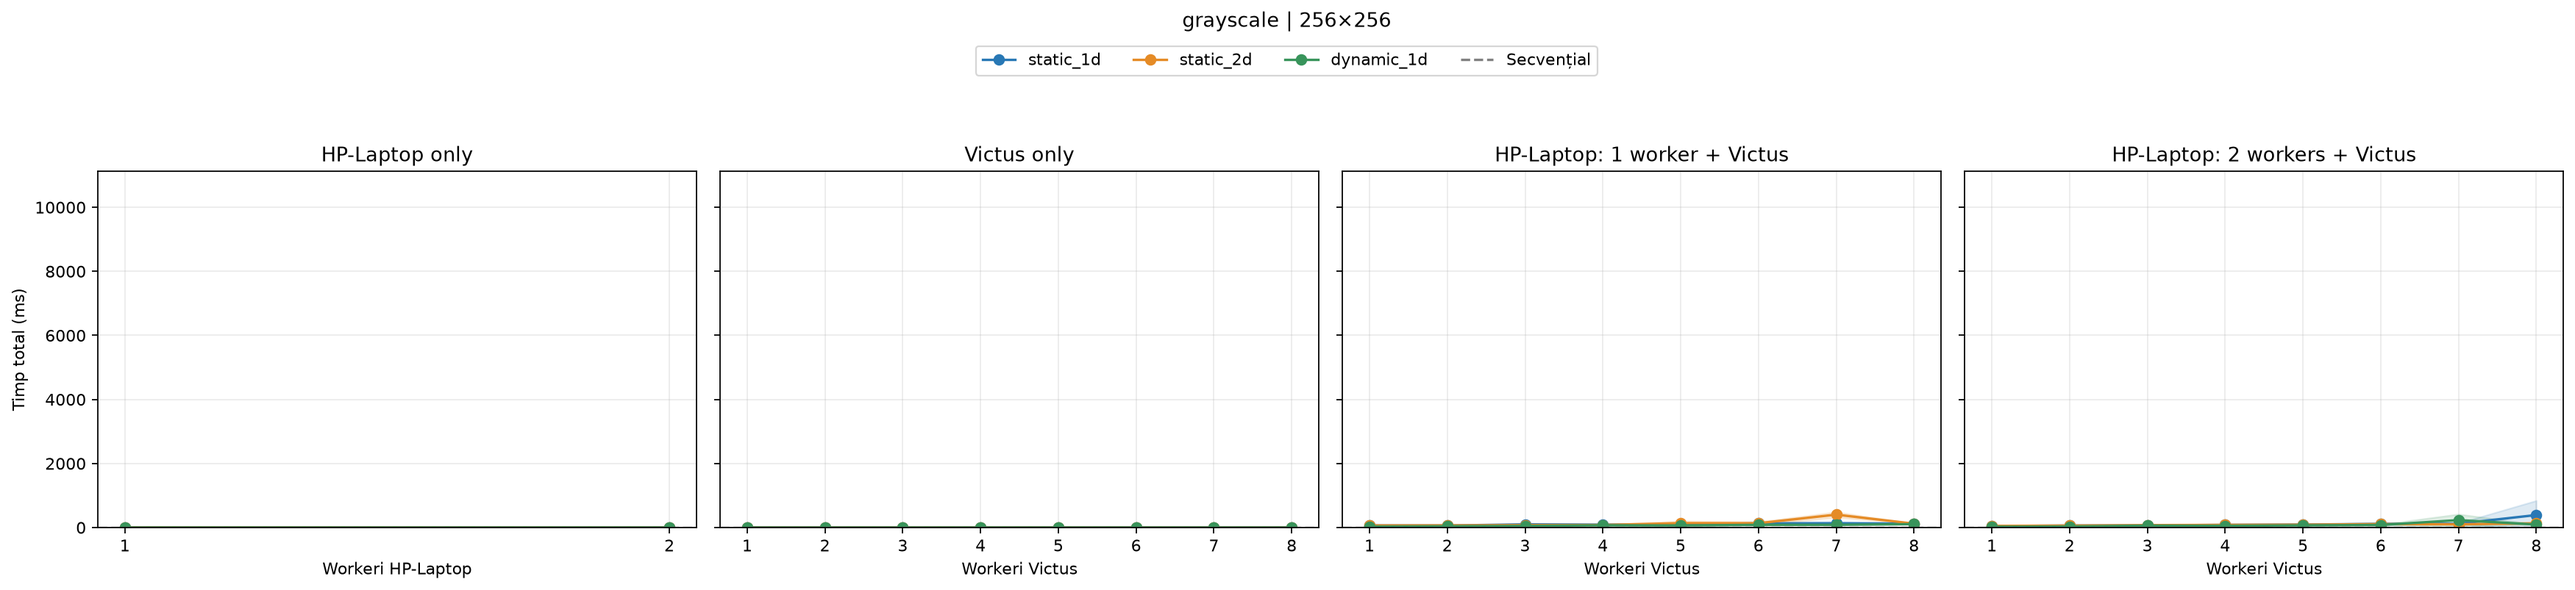
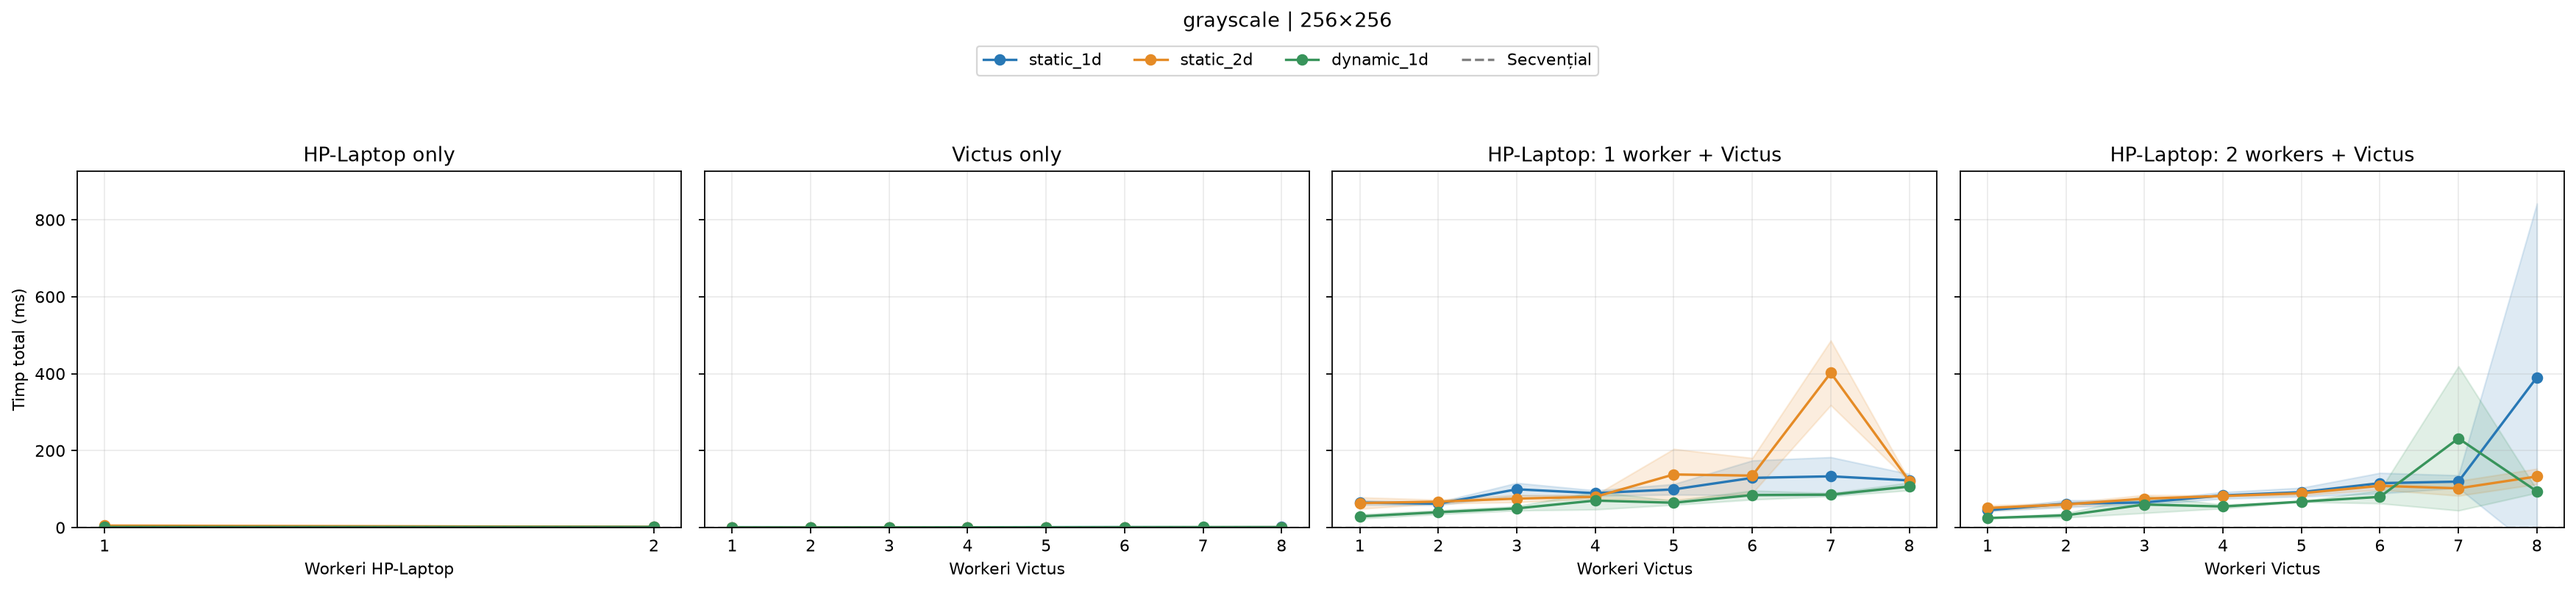
test benchmark 1 done(benchmark with small image)

diff --git a/HW1/benchmark_two_machines_small.py b/HW1/benchmark_two_machines_small.py
@@ -120,8 +120,6 @@ def figures_and_report(raw):
         writer = csv.DictWriter(f, fieldnames=list(raw[0]) + ['coordinator'])
         writer.writeheader()
         writer.writerows(dict(r, hp=0 if r['mode'] == 'seq' else r['hp'], victus=0 if r['mode'] == 'seq' else r['victus'], coordinator='HP-Laptop' if r['hp'] else 'victus') for r in raw)
-    time_max = max(r['total'] + r['std'] for r in rows) * 1100
-    speed_max = max(1, max(r['speedup'] for r in rows)) * 1.1
     report = ['# Studiu pilot pe două calculatoare, 256×256', '',
         'Imaginea `test_images/sample_small.ppm` are 65.536 pixeli. Acest raport păstrează studiul original și folosește numai imaginea de 256×256.', '',
         '## Metodologie', '',
@@ -130,10 +128,16 @@ def figures_and_report(raw):
         'În rulările mixte, rangul 0 și primii 1 sau 2 workeri sunt pe HP-Laptop, iar restul workerilor sunt pe Victus. În rulările pe un singur calculator, coordonatorul rulează pe același calculator. Limitele de 2 și 8 se referă la workeri.', '',
         'Speedup = media timpului secvențial / media timpului paralel. Referința secvențială rulează pe calculatorul coordonatorului, deci HP-Laptop pentru configurațiile mixte. Eficiența este speedup / numărul total de workeri. Pe calculatoare diferite, acest raport depinde de performanța referinței secvențiale.', '',
         'Timpii provin din instrumentarea C și exclud lansarea MPI, citirea imaginii, scrierea rezultatului și verificarea pixelilor. Prima repetare a fiecărei configurații salvează rezultatul pentru comparație integrală cu referința secvențială. Celelalte repetări folosesc ieșirea NONE. Timpii sunt afișați ca medie și abatere standard. Trei repetări oferă o verificare pilot, cu precizie limitată pentru operațiile scurte.', '',
-        'Toate graficele de timp folosesc aceeași limită verticală, inclusiv graficele strategiilor. Graficele de speedup folosesc o limită comună. Valorile extreme ridică limita verticală, astfel că unele curbe și bare sunt aproape de zero pe această scară. Tabelele păstrează valorile numerice. Datele brute includ timpii fiecărui worker, distribuția pe calculatoare și datele necesare eficienței. Variația cu rezoluția necesită măsurători la alte dimensiuni și nu poate fi evaluată cu această singură imagine.', '']
+        'Cele patru panouri ale graficelor de timp și speedup folosesc aceeași limită verticală, calculată din maximul datelor afișate în acea figură, cu 10% spațiu suplimentar. Graficele strategiilor au două rânduri: configurațiile pe un singur calculator sus și configurațiile mixte jos. Fiecare rând folosește propria limită verticală comună, calculată din maximul celor două panouri, cu 10% spațiu suplimentar. Pentru timp sunt incluse benzile de abatere standard și referințele secvențiale; pentru strategii sunt incluse înălțimile totale ale barelor suprapuse. Limitele sunt calculate separat pentru fiecare operație și tip de grafic. Valorile extreme din aceeași figură pot comprima curbele și barele mai mici. Tabelele păstrează valorile numerice. Datele brute includ timpii fiecărui worker, distribuția pe calculatoare și datele necesare eficienței. Variația cu rezoluția necesită măsurători la alte dimensiuni și nu poate fi evaluată cu această singură imagine.', '']
     for op in OPS:
         slug = op.replace(',', '_')
         subset = [r for r in rows if r['op'] == op and r['mode'] != 'seq']
+        # Share a scale within each four-panel figure, not across operations.
+        time_max = max(
+            max(r['total'] + r['std'] for r in subset),
+            *(baselines[op, host] for host in ('HP-Laptop', 'victus')),
+        ) * 1100
+        speed_max = max(1, max(r['speedup'] for r in subset)) * 1.1
         report += [f'## {op}', '']
         for metric, filename, ylabel, limit in [('total', 'execution_time', 'Timp total (ms)', time_max), ('speedup', 'speedup', 'Speedup', speed_max)]:
             fig, axes = plt.subplots(1, 4, figsize=(22, 5), sharey=True)
@@ -161,8 +165,16 @@ def figures_and_report(raw):
             fig.savefig(OUT / f'{filename}_{slug}.png', dpi=160, bbox_inches='tight')
             plt.close(fig)
             report += [f'![{ylabel}, {op}](benchmark_small_two_machines/{filename}_{slug}.png)', '']
-        fig, axes = plt.subplots(1, 4, figsize=(30, 7), sharey=True)
-        for ax, (h, v) in zip(axes, PROFILES):
+        fig, axes = plt.subplots(2, 2, figsize=(20, 12), sharey='row')
+        partition_limits = []
+        for profiles in (PROFILES[:2], PROFILES[2:]):
+            profile_rows = [r for r in subset if (r['hp'], r['victus']) in profiles]
+            partition_limits.append(max(
+                max(r['total'], r['pack'] + r['send'] + r['wait'],
+                    *(comp + ops for comp, ops in zip(r['workers_comp'], r['workers_ops'])))
+                for r in profile_rows
+            ) * 1100)
+        for idx, (ax, (h, v)) in enumerate(zip(axes.flat, PROFILES)):
             ticks, labels = [], []
             pos = 0
             for mode in MODES:
@@ -185,13 +197,14 @@ def figures_and_report(raw):
                 ax.text((start+pos)/2, -.29, mode, ha='center', transform=ax.get_xaxis_transform(), fontsize=10)
                 pos += 2
             ax.set_xticks(ticks, labels, rotation=90, fontsize=7)
-            ax.set(title=f'HP-Laptop: {h} workeri | Victus: {v} workeri', ylim=(0, time_max))
+            ax.set(title=f'HP-Laptop: {h} workeri | Victus: {v} workeri', ylim=(0, partition_limits[idx // 2]))
             ax.grid(axis='y', alpha=.25)
-        axes[0].set_ylabel('Timp (ms)')
-        handles, labels = axes[0].get_legend_handles_labels()
+        for ax in axes[:, 0]:
+            ax.set_ylabel('Timp (ms)')
+        handles, labels = axes[0, 0].get_legend_handles_labels()
         fig.legend(handles, labels, loc='upper center', bbox_to_anchor=(.5, .95), ncol=6)
         fig.suptitle(f'{op} | 256×256', y=.995)
-        fig.tight_layout(rect=(0, .12, 1, .86))
+        fig.tight_layout(rect=(0, .06, 1, .91), h_pad=7)
         fig.savefig(OUT / f'partition_strategies_{slug}.png', dpi=160, bbox_inches='tight')
         plt.close(fig)
         report += [f'![Strategii, {op}](benchmark_small_two_machines/partition_strategies_{slug}.png)', '']

diff --git a/HW1/experimental_study_256x256_two_machines.md b/HW1/experimental_study_256x256_two_machines.md
@@ -14,7 +14,7 @@ Speedup = media timpului secvențial / media timpului paralel. Referința secven
 
 Timpii provin din instrumentarea C și exclud lansarea MPI, citirea imaginii, scrierea rezultatului și verificarea pixelilor. Prima repetare a fiecărei configurații salvează rezultatul pentru comparație integrală cu referința secvențială. Celelalte repetări folosesc ieșirea NONE. Timpii sunt afișați ca medie și abatere standard. Trei repetări oferă o verificare pilot, cu precizie limitată pentru operațiile scurte.
 
-Toate graficele de timp folosesc aceeași limită verticală, inclusiv graficele strategiilor. Graficele de speedup folosesc o limită comună. Valorile extreme ridică limita verticală, astfel că unele curbe și bare sunt aproape de zero pe această scară. Tabelele păstrează valorile numerice. Datele brute includ timpii fiecărui worker, distribuția pe calculatoare și datele necesare eficienței. Variația cu rezoluția necesită măsurători la alte dimensiuni și nu poate fi evaluată cu această singură imagine.
+Cele patru panouri ale graficelor de timp și speedup folosesc aceeași limită verticală, calculată din maximul datelor afișate în acea figură, cu 10% spațiu suplimentar. Graficele strategiilor au două rânduri: configurațiile pe un singur calculator sus și configurațiile mixte jos. Fiecare rând folosește propria limită verticală comună, calculată din maximul celor două panouri, cu 10% spațiu suplimentar. Pentru timp sunt incluse benzile de abatere standard și referințele secvențiale; pentru strategii sunt incluse înălțimile totale ale barelor suprapuse. Limitele sunt calculate separat pentru fiecare operație și tip de grafic. Valorile extreme din aceeași figură pot comprima curbele și barele mai mici. Tabelele păstrează valorile numerice. Datele brute includ timpii fiecărui worker, distribuția pe calculatoare și datele necesare eficienței. Variația cu rezoluția necesită măsurători la alte dimensiuni și nu poate fi evaluată cu această singură imagine.
 
 ## grayscale
 
@@ -58,7 +58,7 @@ Cel mai mic timp paralel mediu este 1.948 ms, cu static_1d, 0 workeri HP-Laptop 
 
 ## Verificare și interpretare
 
-Cea mai lentă repetare a durat 10767.017 ms, pentru rotate90, dynamic_1d, cu 1 worker HP-Laptop și 8 workeri Victus. Cea mai mare abatere standard relativă este 149.5%, pentru rotate90, dynamic_1d, HP=1, Victus=4. Am păstrat toate repetările. Acest pilot verifică matricea și graficele, dar variația limitează concluziile despre ordinea strategiilor. Nu am măsurat separat rețeaua sau încărcarea de fond, deci nu pot atribui variația unei singure cauze.
+Cea mai lentă repetare a durat 10767.017 ms, pentru rotate90, dynamic_1d, cu 1 workeri HP-Laptop și 8 workeri Victus. Cea mai mare abatere standard relativă este 149.5%, pentru rotate90, dynamic_1d, HP=1, Victus=4. Am păstrat toate repetările. Acest pilot verifică matricea și graficele, dar variația limitează concluziile despre ordinea strategiilor. Nu am măsurat separat rețeaua sau încărcarea de fond, deci nu pot atribui variația unei singure cauze.
 
 Toate cele 320 de configurații au rezultate identice pixel cu pixel cu referința secvențială în prima repetare.
 
